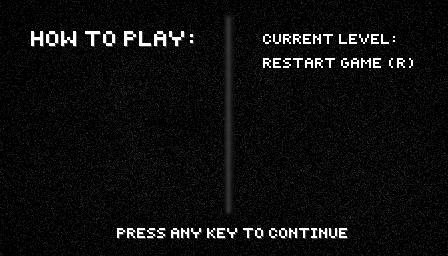
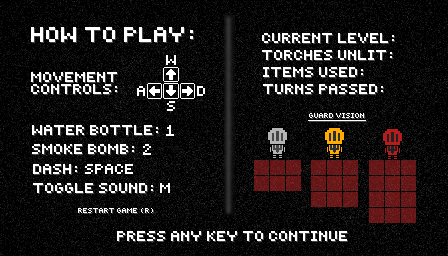
added info screen art and added more to loading screen

diff --git a/intheshadows/print.py b/intheshadows/print.py
@@ -45,29 +45,29 @@ def display_help(width, height, resolution, screen):
 
 
 def display_inventory(width, height, resolution, screen, player):
-    background = pygame.image.load(Path(__file__).parent / "assets/graphics/Backgrounds/dungeon_old.jpg")
+    background = pygame.image.load(Path(__file__).parent / "assets/graphics/Backgrounds/Info_screen.png")
     background = pygame.transform.scale(background, (width // 2, height // 2))
     title_font = pygame.font.Font(Path(__file__).parent / 'assets/fonts/Minecraftia-Regular.ttf', int(height * 0.09))
     font = pygame.font.Font(Path(__file__).parent / 'assets/fonts/Minecraftia-Regular.ttf', int(height * 0.06))
 
-    (title_width, title_height) = (width // 4, height // 16)
-    text = title_font.render("INVENTORY", True, (255, 255, 255))
-    text_rect = text.get_rect()
-    text_rect.center = (title_width, title_height)
-
-    if player.dash_cooldown == 0:
-        dash_text = font.render('SPACE TO DASH', True, (255, 255, 255))
-        (dash_width, dash_height) = (title_width - 128 * resolution, title_height + 48 * resolution)
-    else:
-        dash_text = font.render('DASH COOLDOWN: ' + str(player.dash_cooldown), True, (255, 255, 255))
-        (dash_width, dash_height) = (title_width - 96 * resolution, title_height + 48 * resolution)
-
-    dash_rect = dash_text.get_rect()
-    dash_rect.center = (dash_width, dash_height)
-
+    # (title_width, title_height) = (width // 4, height // 16)
+    # text = title_font.render("INVENTORY", True, (255, 255, 255))
+    # text_rect = text.get_rect()
+    # text_rect.center = (title_width, title_height)
+    #
+    # if player.dash_cooldown == 0:
+    #     dash_text = font.render('SPACE TO DASH', True, (255, 255, 255))
+    #     (dash_width, dash_height) = (title_width - 128 * resolution, title_height + 48 * resolution)
+    # else:
+    #     dash_text = font.render('DASH COOLDOWN: ' + str(player.dash_cooldown), True, (255, 255, 255))
+    #     (dash_width, dash_height) = (title_width - 96 * resolution, title_height + 48 * resolution)
+    #
+    # dash_rect = dash_text.get_rect()
+    # dash_rect.center = (dash_width, dash_height)
+    #
     screen.help_surface.blit(background, (0, 0))
-    screen.help_surface.blit(text, text_rect)
-    screen.help_surface.blit(dash_text, dash_rect)
+    # screen.help_surface.blit(text, text_rect)
+    # screen.help_surface.blit(dash_text, dash_rect)
     screen.foreground_surface.blit(screen.help_surface, (width // 4, height // 4))
 
 
@@ -162,68 +162,32 @@ def run_options(width, height, rects, screen, anim_torches, difficulty):
         screen.background_surface.blit(highlight, (0, 0))
 
 
-def loading_screen(width, height, resolution, screen, level):
+def loading_screen(width, height, screen, level, num_torches, num_items, turns_passed):
     screen.foreground_surface.fill((0, 0, 0))
     pre_game_screen = pygame.transform.scale(pygame.image.load(Path(__file__).parent / "assets/graphics/Backgrounds/Pre_game_screen.png"), (width, height))
-    title_font = pygame.font.Font(Path(__file__).parent / 'assets/fonts/Minecraftia-Regular.ttf', int(height * 0.06))
-    font = pygame.font.Font(Path(__file__).parent / 'assets/fonts/Minecraftia-Regular.ttf', int(height * 0.06))
+    font = pygame.font.Font(Path(__file__).parent / 'assets/fonts/Minecraftia-Regular.ttf', int(height * 0.045))
 
-    # (title_width, title_height) = (width // 2, height // 8)
-    # title = title_font.render("LOADING...", True, (255, 255, 255))
-    # title_rect = title.get_rect()
-    # title_rect.center = (title_width, title_height)
-    #
-    # (level_width, level_height) = (width - 192 * resolution, title_height + 64 * resolution)
     curr_level = font.render(str(level), True, (255, 255, 255))
     curr_level_rect = curr_level.get_rect()
-    curr_level_rect.center = (10 * width // 11, 1.2 * height // 8)
+    curr_level_rect.x, curr_level_rect.y = (9.9 * width // 11, 0.95 * height // 8)
 
-    # (restart_width, restart_height) = (width - 192 * resolution, level_height + 64 * resolution)
-    # restart = font.render("Click R to Restart", True, (255, 255, 255))
-    # restart_rect = restart.get_rect()
-    # restart_rect.center = (restart_width, restart_height)
-    #
-    # (exit_width, exit_height) = (width // 2, height - height // 8)
-    # exit = font.render("PRESS OR CLICK TO CONTINUE", True, (255, 255, 255))
-    # exit_rect = exit.get_rect()
-    # exit_rect.center = (exit_width, exit_height)
-    #
-    # (howto_width, howto_height) = (title_width // 2 - 32 * resolution, title_height + 64 * resolution)
-    # howto = font.render("HOW TO PLAY:", True, (255, 255, 255))
-    # howto_rect = howto.get_rect()
-    # howto_rect.center = (howto_width, howto_height)
+    torches_unlit = font.render(str(num_torches), True, (255, 255, 255))
+    torches_unlit_rect = torches_unlit.get_rect()
+    torches_unlit_rect.x, torches_unlit_rect.y = (9.9 * width // 11, 1.48 * height // 8)
 
-    # (move_width, move_height) = (title_width // 4, howto_height + 48 * resolution)
-    # move_text = font.render('MOVE:', True, (255, 255, 255))
-    # move_rect = move_text.get_rect()
-    # move_rect.center = (move_width, move_height)
-    #
-    # (movement_width, movement_height) = (title_width // 4 + move_width, howto_height + 16 * resolution)
-    # arrow_key = pygame.image.load(
-    #     Path(__file__).parent / "assets/graphics/HUD Elements/arrow_keys.png").convert_alpha()
-    # scaled_arrow = pygame.transform.scale(arrow_key, (width // 10, height // 10))
-    #
-    # (music_width, music_height) = (movement_width + (4 * resolution), move_height + 48 * resolution)
-    # music_text = font.render('TOGGLE MUSIC: M', True, (255, 255, 255))
-    # music_rect = music_text.get_rect()
-    # music_rect.center = (music_width, music_height)
-    #
-    # (quit_width, quit_height) = (music_width - (16 * resolution), music_height + 48 * resolution)
-    # quit_text = font.render('QUIT: ESCAPE', True, (255, 255, 255))
-    # quit_rect = quit_text.get_rect()
-    # quit_rect.center = (quit_width, quit_height)
+    items_used = font.render(str(num_items), True, (255, 255, 255))
+    items_used_rect = items_used.get_rect()
+    items_used_rect.x, items_used_rect.y = (9.18 * width // 11, 2.02 * height // 8)
+
+    num_turns = font.render(str(turns_passed), True, (255, 255, 255))
+    num_turns_rect = num_turns.get_rect()
+    num_turns_rect.x, num_turns_rect.y = (9.65 * width // 11, 2.55 * height // 8)
 
     screen.foreground_surface.blit(pre_game_screen, (0, 0))
-    # screen.foreground_surface.blit(title, title_rect)
-    # screen.foreground_surface.blit(howto, howto_rect)
     screen.foreground_surface.blit(curr_level, curr_level_rect)
-    # screen.foreground_surface.blit(restart, restart_rect)
-    # screen.foreground_surface.blit(exit, exit_rect)
-    # screen.foreground_surface.blit(move_text, move_rect)
-    # screen.foreground_surface.blit(scaled_arrow, (movement_width, movement_height))
-    # screen.foreground_surface.blit(music_text, music_rect)
-    # screen.foreground_surface.blit(quit_text, quit_rect)
-
+    screen.foreground_surface.blit(torches_unlit, torches_unlit_rect)
+    screen.foreground_surface.blit(items_used, items_used_rect)
+    screen.foreground_surface.blit(num_turns, num_turns_rect)
 
 
 

diff --git a/intheshadows/game.py b/intheshadows/game.py
@@ -110,7 +110,7 @@ class Game:
     def __escape_state(self):
         match self.__state:
             case 'load':
-                self.__state = 'game'
+                self.__state = 'menu'
             case 'options':
                 self.__state = 'menu'
             case 'game':
@@ -280,6 +280,9 @@ class Game:
                     if ev.key == pygame.K_r:
                         self.__level = 1
                         self.save_level()
+                    if ev.key == pygame.K_ESCAPE:
+                        self.__escape_state()
+                        return
                 if ev.type == pygame.KEYDOWN or ev.type == pygame.MOUSEBUTTONDOWN:
                     self.__state = 'game'
                     self.__board.unload()
@@ -904,7 +907,7 @@ class Game:
             match self.__state:
                 case 'load':
                     pygame.mouse.set_visible(False)
-                    loading_screen(self.__width, self.__height, self.__resolution, self.__screen, self.__level)
+                    loading_screen(self.__width, self.__height, self.__screen, self.__level, 69, 420, 8008)
                 case 'menu':
                     pygame.mouse.set_visible(True)
                     self.__music.play_music('menu')
